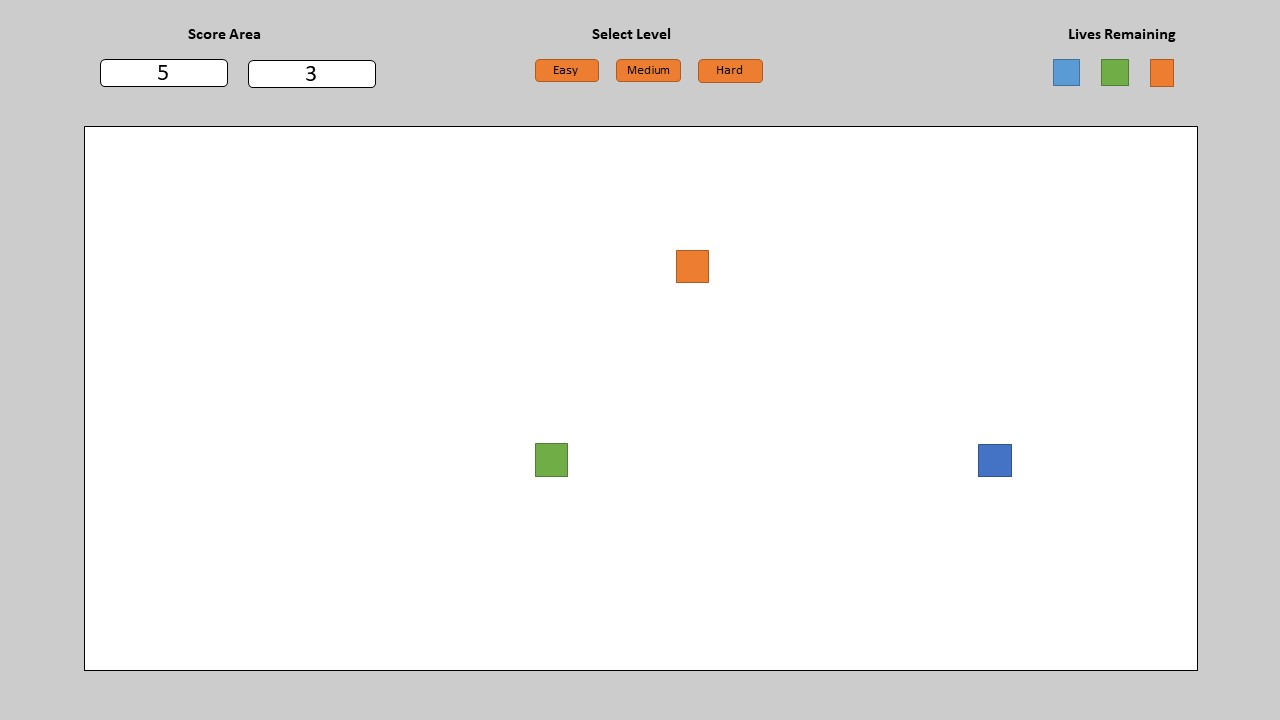
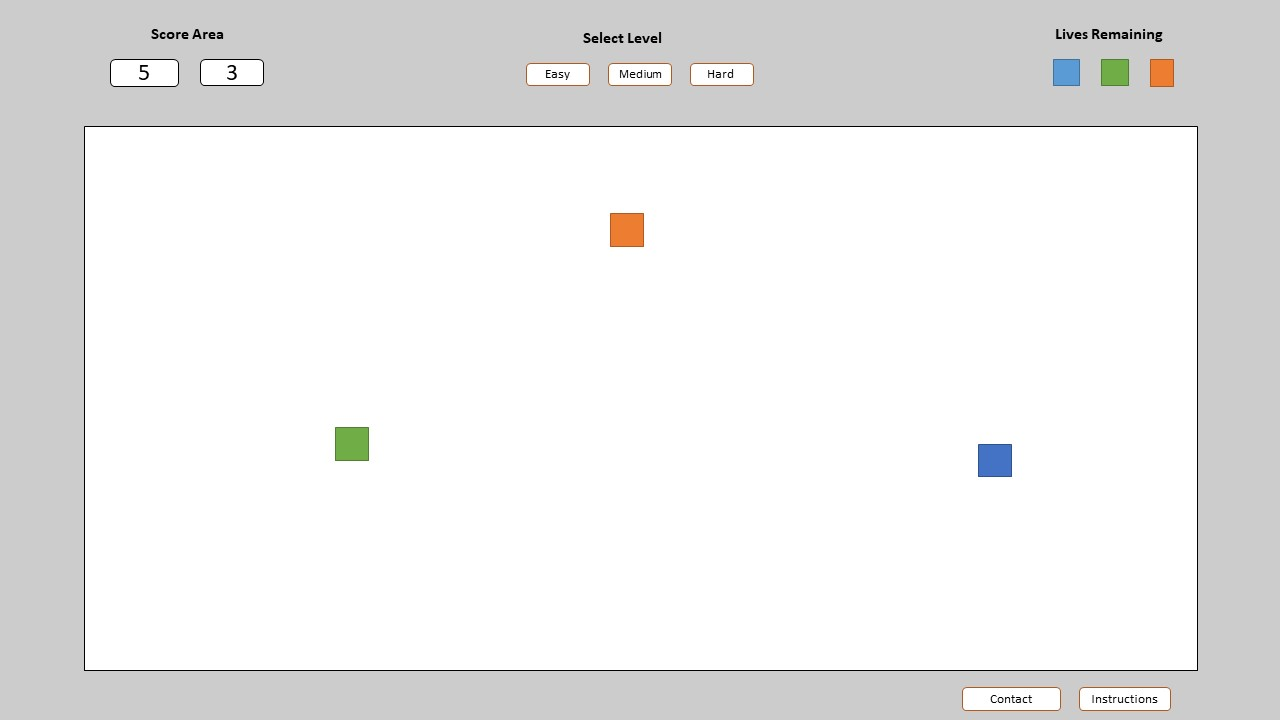
added geme design content to the readme

diff --git a/README.md b/README.md
@@ -8,6 +8,11 @@
 
 1. [Introduction](#Introduction)
 1. [Design](#Design)
+    - [External User's goal's](#External-User's-goal's)
+    - [Site owner's goal's](#Site-owner's-goal's)
+    - [Functionality Requirements](#Functionality-Requirements)
+    - [Wireframes](#Wireframes)
+    - [Game design](#Game-design)
 1. [Features](#Features)
 1. [Testing](#Testing)
 1. [Technologies and Frameworks](#Technologies-and-Frameworks)
@@ -33,37 +38,89 @@ The main requirements is to write custom front-end interactive web application, 
 
 In order to manipulate the DOM as much as posible, I'm building a simple JavaScript single-player reaction time game.<br> 
 The objective of the game is to click or tap the objects that are spawning randomly on the screen as quickly as you can.<br>
-In order to keep the game challenging, complexity will increase over the course of the game.
+To keep the game challenging, complexity will increase over the course of the game.
 # [&#8686;](#Top)
 
-### **Design**
-#### **External User's goal's**
+## **Design**
+### **External User's goal's**
 1. Have fun playing game.
-#### **Site owner's goal's**
+### **Site owner's goal's**
 1. Make a game that is fun to play
-#### **Functionality Requirements**
+### **Functionality Requirements**
 1. Build a simple single-player reaction time game.
 1. Increase in complexity over the course of the game.
-1. Object click counter when player clicks on an object and missed object counter. 
+1. Click counter if player clicks or misses the target.
 1. Provide player with instructions on how to play the game.
+1. Integrate feedback form if encountered bugs or glitches.
 1. Provide player with feedback on how they're doing at any stage.
 
-#### **Wireframes**
+### **Game Mechanics**
+1. Game Play
+    - Select dificulty level to start the game.
+    - Click or tap on target objects once they spawn.
+1. Select Level 
+    - Select Dificulty level "Easy", "Medium", "Hard".
+        - "Easy" will select slowest game speed level.
+        - "Medium" will select medium speed level.
+        - "Hard" is the fastest speed level of the three levels. 
+1. Score Counters
+    - Score counter:
+        - Will increase by 1, once player clicks the target.
+    - Missed score counter:
+        - Will increase by 1 if target is not clicked on time or target is missed altogether.
+1. Lives Remaining
+    - The game starts with three lives.
+    - Players will gain life once every 10 score points. 
+    - Maximum three lives can be gained at once.
+    - Player will lose life if target is not clicked on time or target is missed altogether. 
+    - Losing all lives means "game over".
+# [&#8686;](#Top)
+### **Wireframes**
 ![View](project_files/wireframe.jpg)
+# [&#8686;](#Top)
 ![View](project_files/wireframe2.jpg)
-#### **Features**
-- Game Navigation
-    -  Player can select difficulty level. 
-- Game score counter
+# [&#8686;](#Top)
+### **Game design**
+- Select Level
+    - Levels = "Easy" slow speed, "Medium" medium speed or "Hard" fast speed variables created.
+    - Create setInterval() function in gameSetup() function.
+    - Levels speed variable is passed into the setInterval() function after sellection is made.
+- Lives Remaining
+    - Based on capture and click events, all Unsuccessful clicks and misset on time events will disable one life element (if statement)
+    - Based on Score counter, every 10 score points will create one life. Enable one life element (if statement).
+    or miss click the box on time 
+- Random Number generator
+    - Extract Window height and width.
+    - Create random number generator to generate two integers based on screen height and width.
+- In game target objects
+    - I'm targeting HTML div elements in the DOM for game box targets.
+    - Two random generated integers used for position x and y coardinates to target css position properties for HTML div elements.
+- Click event listeners and capture events.
+    - Create event listeners for game targets that will record on box target successfull
+     on target clicks.
+    - Create event listener for game window to record unsuccessful clicks on box target.
+    - Capture event if user failed clicked target boxes on time.
+- Game setup
+    - Basedd on Level selection. if "EASY", else if "MEDIUM", else if "HARD".
+    - Level variable will be passed into setInterval() function within the gameSetup() function and will launch the game.
+
+# [&#8686;](#Top)
+## **Features**
+- Game Window
+    -  Interactive game area, that is where target box objects spawn for user to click or tap on.
+- Select Level
+    - Player can select difficulty level based on speed.
+- Score counter 
     - Enables players to keep track of points when playing a game.
+- Lives Remaining
+    - If you miss box target, you lose one life but once score 10 has been reached, you will gain one life
 - Game-level-Up
     - Gain enough points in the game to enable a player to go up to a higher level.
-- Lives Remaining
-    - If you miss a target you lose one life but once score 10 has been reached, you will gain one life
-- Game Area
-    -  Interactive game area, that is where objects spawn randomly for user to click or tap on. 
+- Contact/Feedback form
+    - For users to be able to send feedback or contact if they incounter any gliches or bugs.
+
 # [&#8686;](#Top)
-## TESTING
+## **TESTING**
 # [&#8686;](#Top)
 ## **Technologies and Frameworks**
 ### **Markup/Scripting/Programming languages**
